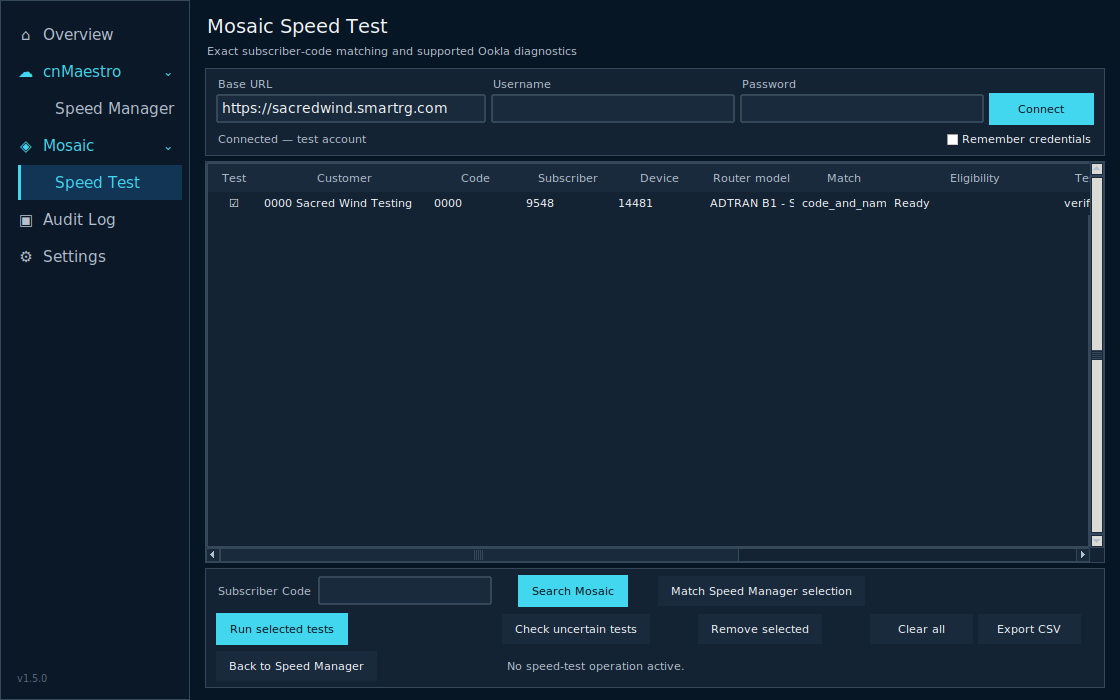
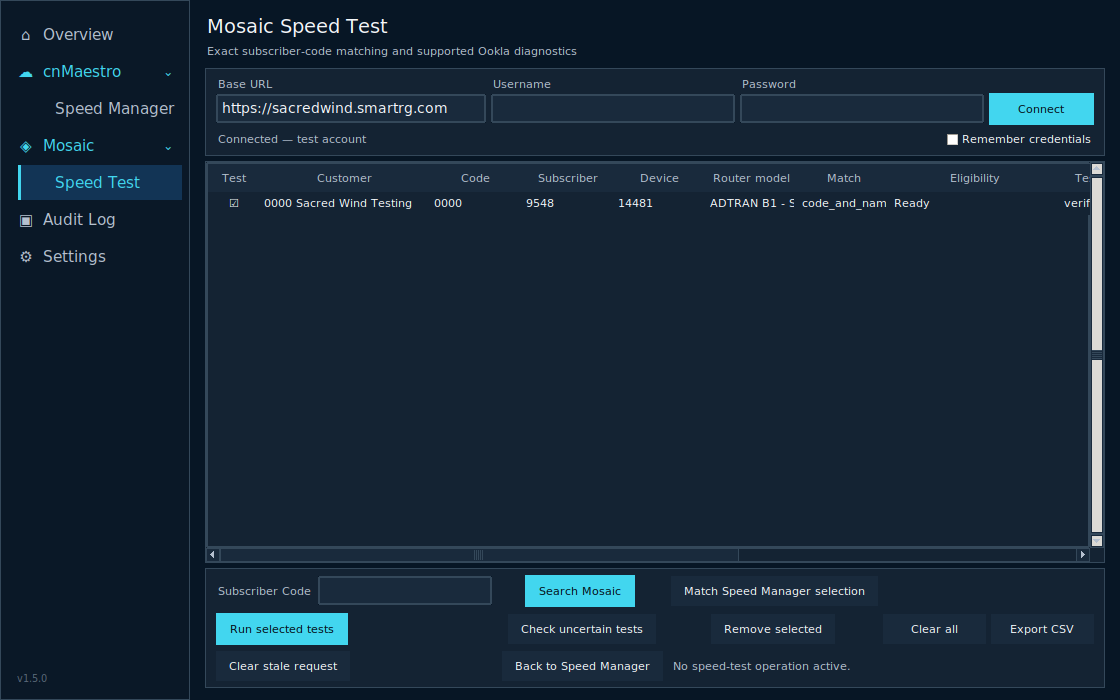
fix: prevent stale Mosaic request recurrence
Classify terminal pending requests, clean app-owned residue after verified results, and add a guarded operator clear action.

diff --git a/cnmaestro_speed_manager.py b/cnmaestro_speed_manager.py
@@ -248,7 +248,7 @@ class App(tk.Tk):
   o,t=self.card(p,0,0);o.grid(row=3,column=0,sticky='nsew',pady=(0,5));t.columnconfigure(0,weight=1);t.rowconfigure(0,weight=1);cols=('select','customer','code','subscriber','device','model','match','eligibility','state','test_time','download','upload','latency','jitter');heads=('Test','Customer','Code','Subscriber','Device','Router model','Match','Eligibility','Test status','Test time (UTC)','Download','Upload','Latency','Jitter');self.mosaic_tree=ttk.Treeview(t,columns=cols,show='headings',selectmode='none',height=10)
   for col,head in zip(cols,heads):self.mosaic_tree.heading(col,text=head);self.mosaic_tree.column(col,width=52 if col=='select' else (170 if col in ('customer','eligibility') else (155 if col=='test_time' else 92)),stretch=False,anchor='center' if col=='select' else 'w')
   self.mosaic_tree.bind('<Button-1>',self.mosaic_tree_click);y=ttk.Scrollbar(t,orient='vertical',command=self.mosaic_tree.yview);x=ttk.Scrollbar(t,orient='horizontal',command=self.mosaic_tree.xview);self.mosaic_tree.configure(yscrollcommand=y.set,xscrollcommand=x.set);self.mosaic_tree.grid(row=0,column=0,sticky='nsew');y.grid(row=0,column=1,sticky='ns');x.grid(row=1,column=0,sticky='ew')
-  o,a=self.card(p,10,6);o.grid(row=4,column=0,sticky='ew');ttk.Label(a,text='Subscriber Code',style='SurfaceMuted.TLabel').grid(row=0,column=0,sticky='w');self.mosaic_search_entry=ttk.Entry(a,textvariable=self.mosaic_search_code,width=18);self.mosaic_search_entry.grid(row=0,column=1,padx=(5,5));self.mosaic_search_button=ttk.Button(a,text='Search Mosaic',style='Accent.TButton',command=self.search_mosaic_subscriber);self.mosaic_search_button.grid(row=0,column=2);self.mosaic_find_button=ttk.Button(a,text='Match Speed Manager selection',command=self.find_mosaic_matches);self.mosaic_find_button.grid(row=0,column=3,padx=(8,0));self.mosaic_run_button=ttk.Button(a,text='Run selected tests',style='Accent.TButton',command=self.run_selected_mosaic_tests);self.mosaic_run_button.grid(row=1,column=0,columnspan=2,pady=(6,0),sticky='w');self.mosaic_reconcile_button=ttk.Button(a,text='Check uncertain tests',command=self.reconcile_mosaic_unknown);self.mosaic_reconcile_button.grid(row=1,column=2,padx=(5,0),pady=(6,0));self.mosaic_remove_button=ttk.Button(a,text='Remove selected',command=self.clear_selected_mosaic_candidates);self.mosaic_remove_button.grid(row=1,column=3,padx=(5,0),pady=(6,0));self.mosaic_clear_button=ttk.Button(a,text='Clear all',command=self.clear_all_mosaic_candidates);self.mosaic_clear_button.grid(row=1,column=4,padx=(5,0),pady=(6,0));self.mosaic_export_button=ttk.Button(a,text='Export CSV',command=self.export_mosaic_csv);self.mosaic_export_button.grid(row=1,column=5,padx=(5,0),pady=(6,0));self.mosaic_back_button=ttk.Button(a,text='Back to Speed Manager',command=lambda:self.show_page('speed_manager'));self.mosaic_back_button.grid(row=2,column=0,columnspan=2,sticky='w',pady=(6,0));self.mosaic_action_status=tk.StringVar(value='No speed-test operation active.');ttk.Label(a,textvariable=self.mosaic_action_status,style='SurfaceMuted.TLabel').grid(row=2,column=2,columnspan=4,sticky='w',padx=(8,0),pady=(6,0))
+  o,a=self.card(p,10,6);o.grid(row=4,column=0,sticky='ew');ttk.Label(a,text='Subscriber Code',style='SurfaceMuted.TLabel').grid(row=0,column=0,sticky='w');self.mosaic_search_entry=ttk.Entry(a,textvariable=self.mosaic_search_code,width=18);self.mosaic_search_entry.grid(row=0,column=1,padx=(5,5));self.mosaic_search_button=ttk.Button(a,text='Search Mosaic',style='Accent.TButton',command=self.search_mosaic_subscriber);self.mosaic_search_button.grid(row=0,column=2);self.mosaic_find_button=ttk.Button(a,text='Match Speed Manager selection',command=self.find_mosaic_matches);self.mosaic_find_button.grid(row=0,column=3,padx=(8,0));self.mosaic_run_button=ttk.Button(a,text='Run selected tests',style='Accent.TButton',command=self.run_selected_mosaic_tests);self.mosaic_run_button.grid(row=1,column=0,columnspan=2,pady=(6,0),sticky='w');self.mosaic_reconcile_button=ttk.Button(a,text='Check uncertain tests',command=self.reconcile_mosaic_unknown);self.mosaic_reconcile_button.grid(row=1,column=2,padx=(5,0),pady=(6,0));self.mosaic_remove_button=ttk.Button(a,text='Remove selected',command=self.clear_selected_mosaic_candidates);self.mosaic_remove_button.grid(row=1,column=3,padx=(5,0),pady=(6,0));self.mosaic_clear_button=ttk.Button(a,text='Clear all',command=self.clear_all_mosaic_candidates);self.mosaic_clear_button.grid(row=1,column=4,padx=(5,0),pady=(6,0));self.mosaic_export_button=ttk.Button(a,text='Export CSV',command=self.export_mosaic_csv);self.mosaic_export_button.grid(row=1,column=5,padx=(5,0),pady=(6,0));self.mosaic_clear_stale_button=ttk.Button(a,text='Clear stale request',command=self.clear_selected_stale_request);self.mosaic_clear_stale_button.grid(row=2,column=0,columnspan=2,sticky='w',pady=(6,0));self.mosaic_back_button=ttk.Button(a,text='Back to Speed Manager',command=lambda:self.show_page('speed_manager'));self.mosaic_back_button.grid(row=2,column=2,sticky='w',padx=(5,0),pady=(6,0));self.mosaic_action_status=tk.StringVar(value='No speed-test operation active.');ttk.Label(a,textvariable=self.mosaic_action_status,style='SurfaceMuted.TLabel').grid(row=2,column=3,columnspan=3,sticky='w',padx=(8,0),pady=(6,0))
  def on_publish_progress_changed(self,*_):
   text=self.progtext.get()
   if not text.startswith('Completed |') or text==self._publish_handoff_signature:return
@@ -276,10 +276,10 @@ class App(tk.Tk):
    unique={str(record.get('fields',{}).get('deviceId') or ''):record for record in match.records if record.get('fields',{}).get('deviceId')}
    found=[]
    for offset,(device_id,record) in enumerate(sorted(unique.items())):
-    single=match_subscriber(customer.get('name',''),[record]);bundle=await self.mosaic_api.read_device(device_id);elig=evaluate_eligibility(record,bundle['support'],bundle['application_status'],bundle['actions']);candidate=self.mosaic_candidate(customer,index*100+offset,single,elig);candidate['match']='multiple_devices';candidate['eligibility']='Review device choice — '+elig.reason;found.append(candidate)
+    single=match_subscriber(customer.get('name',''),[record]);bundle=await self.mosaic_api.read_device(device_id);elig=evaluate_eligibility(record,bundle['support'],bundle['application_status'],bundle['actions'],data=bundle['data']);candidate=self.mosaic_candidate(customer,index*100+offset,single,elig);candidate['match']='multiple_devices';candidate['eligibility']='Review device choice — '+elig.reason;found.append(candidate)
    return found
   if match.status!='matched':return [self.mosaic_candidate(customer,index,match,None)]
-  device_id=str(match.record.get('fields',{}).get('deviceId'));bundle=await self.mosaic_api.read_device(device_id);elig=evaluate_eligibility(match.record,bundle['support'],bundle['application_status'],bundle['actions']);return [self.mosaic_candidate(customer,index,match,elig)]
+  device_id=str(match.record.get('fields',{}).get('deviceId'));bundle=await self.mosaic_api.read_device(device_id);elig=evaluate_eligibility(match.record,bundle['support'],bundle['application_status'],bundle['actions'],data=bundle['data']);return [self.mosaic_candidate(customer,index,match,elig)]
  def search_mosaic_subscriber(self):
   if not self.mosaic_api:return messagebox.showerror('Mosaic','Connect to Mosaic first')
   code=self.mosaic_search_code.get().strip()
@@ -302,7 +302,7 @@ class App(tk.Tk):
    return found
   self.bg(work(),self.finish_mosaic_matches)
  def mosaic_candidate(self,customer,index,match,eligibility):
-  fields=match.record.get('fields',{}) if match and match.record else {};status=match.status if match else 'missing_code';reason=match.reason if match else 'Customer name has no leading subscriber code';eligible=bool(eligibility and eligibility.eligible);return {'key':str(fields.get('deviceId') or f'unmatched-{index}'),'selected':False,'customer':customer.get('name',''),'subscriber_code':match.subscriber_code if match else None,'subscriber_id':fields.get('subscriberId'),'device_id':fields.get('deviceId'),'model':fields.get('model'),'match':match.confidence if match and match.confidence else status,'eligible':eligible,'eligibility':eligibility.reason if eligibility else reason,'state':'ready' if eligible else 'review','download_mbps':None,'upload_mbps':None,'latency_ms':None,'jitter_ms':None,'test_time_utc':None,'record':match.record if match and match.record else None}
+  fields=match.record.get('fields',{}) if match and match.record else {};status=match.status if match else 'missing_code';reason=match.reason if match else 'Customer name has no leading subscriber code';eligible=bool(eligibility and eligibility.eligible);return {'key':str(fields.get('deviceId') or f'unmatched-{index}'),'selected':False,'customer':customer.get('name',''),'subscriber_code':match.subscriber_code if match else None,'subscriber_id':fields.get('subscriberId'),'device_id':fields.get('deviceId'),'model':fields.get('model'),'match':match.confidence if match and match.confidence else status,'eligible':eligible,'eligibility':eligibility.reason if eligibility else reason,'state':'ready' if eligible else 'review','download_mbps':None,'upload_mbps':None,'latency_ms':None,'jitter_ms':None,'test_time_utc':None,'stale_pending':bool(eligibility and eligibility.stale_pending),'record':match.record if match and match.record else None}
  def finish_mosaic_matches(self,result,error):
   if error:self.mosaic_action_status.set('Match error: '+str(error));return
   self.mosaic_candidates=result;self.mosaic_checked.clear();self.render_mosaic_candidates();ready=sum(c['eligible'] for c in result);self.mosaic_action_status.set(f'{len(result)} matched/reviewed | {ready} eligible')
@@ -317,10 +317,25 @@ class App(tk.Tk):
   self.toggle_mosaic_candidate(self.mosaic_tree.identify_row(event.y))
  def toggle_mosaic_candidate(self,key):
   candidate=next((c for c in self.mosaic_candidates if c['key']==key),None)
-  if not candidate or not candidate.get('eligible') or candidate.get('state')=='unknown':return
+  if not candidate or (not candidate.get('eligible') and not candidate.get('stale_pending')) or candidate.get('state')=='unknown':return
   if key in self.mosaic_checked:self.mosaic_checked.remove(key)
   else:self.mosaic_checked.add(key)
   candidate['selected']=key in self.mosaic_checked;self.render_mosaic_candidates()
+ def clear_selected_stale_request(self):
+  if self.mosaic_running:return messagebox.showerror('Mosaic','Wait for the active speed-test operation to finish.')
+  if not self.mosaic_api:return messagebox.showerror('Mosaic','Connect to Mosaic first')
+  selected=[candidate for candidate in self.mosaic_candidates if candidate.get('key') in self.mosaic_checked and candidate.get('stale_pending')]
+  if len(selected)!=1:return messagebox.showinfo('Mosaic','Select exactly one row labeled Stale Ookla request.')
+  candidate=selected[0]
+  if not messagebox.askyesno('Clear stale request',f"Clear only the stale Ookla request for device {candidate.get('device_id')}?\n\nNo speed test will be started."):return
+  self.mosaic_running=True;self.mosaic_run_button.configure(state='disabled');self.mosaic_clear_stale_button.configure(state='disabled');self.mosaic_action_status.set('Clearing stale Ookla request...')
+  async def work():
+   result=await self.mosaic_api.clear_terminal_ookla_pending(str(candidate['device_id']),required=True);bundle=await self.mosaic_api.read_device(str(candidate['device_id']));elig=evaluate_eligibility(candidate['record'],bundle['support'],bundle['application_status'],bundle['actions'],data=bundle['data']);return result,elig
+  self.bg(work(),lambda result,error,candidate=candidate:self.finish_stale_request_clear(candidate,result,error))
+ def finish_stale_request_clear(self,candidate,result,error):
+  self.mosaic_running=False;self.mosaic_run_button.configure(state='normal');self.mosaic_clear_stale_button.configure(state='normal')
+  if error:self.mosaic_action_status.set('Stale-request clear error: '+str(error));return
+  _,eligibility=result;candidate['eligible']=eligibility.eligible;candidate['eligibility']=eligibility.reason;candidate['stale_pending']=eligibility.stale_pending;candidate['state']='ready' if eligibility.eligible else 'review';self.render_mosaic_candidates();self.mosaic_action_status.set('Stale Ookla request cleared and eligibility refreshed.')
  def clear_selected_mosaic_candidates(self):
   if self.mosaic_running:return messagebox.showerror('Mosaic','Wait for the active speed test to finish.')
   if not self.mosaic_checked:return messagebox.showinfo('Mosaic','Select the customers to remove first.')
@@ -349,6 +364,8 @@ class App(tk.Tk):
    for index,c in enumerate(selected,1):
     device=str(c['device_id']);c['state']='submitting';outcome=await execute_journaled_ookla(self.mosaic_api,self.mosaic_journal,str(c['subscriber_code']),device,str(c.get('model') or ''),record=c['record']);c['state']=outcome['state']
     if outcome.get('metrics'):c.update(outcome['metrics'])
+    if outcome.get('cleanup',{}).get('unknown'):c['stale_pending']=True;c['eligibility']='Result verified; stale cleanup needs review'
+    elif outcome.get('cleanup',{}).get('cleared'):c['stale_pending']=False
     if outcome.get('detail'):c['eligibility']=outcome['detail']
    return selected
   self.bg(work(),lambda result,error:self.finish_mosaic_tests(result,error))

diff --git a/tests/test_mosaic_service.py b/tests/test_mosaic_service.py
@@ -68,6 +68,25 @@ class EligibilityTests(unittest.TestCase):
         support["applications"]["OoklaSpeedTest"]["driver"] = None
         self.assertEqual(evaluate_eligibility(record, support, status, actions, now=now).reason, "Ookla driver unavailable")
 
+
+    def test_terminal_ookla_pending_is_classified_as_stale_not_active(self):
+        record, support, status, actions, now = self.eligible_inputs()
+        actions["applications"]["OoklaSpeedTest"]["pendingSync"] = True
+        data = {"applications": {"OoklaSpeedTest": {"dto": {"Settings": {"OoklaSpeedTest": {"State": "Complete", "ExpectingResults": "false", "Results": {"1": {"Status": "Complete", "StartTimeStamp": "200"}}}}}}}}
+        result = evaluate_eligibility(record, support, status, actions, data=data, now=now)
+        self.assertFalse(result.eligible)
+        self.assertTrue(result.stale_pending)
+        self.assertEqual(result.reason, "Stale Ookla request — select this row and clear it")
+
+    def test_pending_ookla_expecting_results_remains_active_and_not_clearable(self):
+        record, support, status, actions, now = self.eligible_inputs()
+        actions["applications"]["OoklaSpeedTest"]["pendingSync"] = True
+        data = {"applications": {"OoklaSpeedTest": {"dto": {"Settings": {"OoklaSpeedTest": {"State": "In Progress", "ExpectingResults": "true", "Results": {}}}}}}}
+        result = evaluate_eligibility(record, support, status, actions, data=data, now=now)
+        self.assertFalse(result.eligible)
+        self.assertFalse(result.stale_pending)
+        self.assertEqual(result.reason, "Another Mosaic action is pending")
+
     def test_unsupported_nodriver_pending_stale_and_sr905_are_ineligible(self):
         record, support, status, actions, now = self.eligible_inputs()
         support["applications"]["OoklaSpeedTest"]["supported"] = False
@@ -170,6 +189,7 @@ class JournaledExecutionTests(unittest.IsolatedAsyncioTestCase):
         def __init__(self, failure=None):
             self.failure = failure
             self.puts = 0
+            self.cleanup_calls = 0
         async def search_subscriber(self, code):
             return [{"fields": {"subscriberCode": str(code), "deviceId": "2", "subscriberId": "1", "model": "SDG", "disposition": "MANAGED_DEVICE", "lastInform": datetime.now(timezone.utc).isoformat(), "fullName": ""}}]
         async def read_device(self, device_id):
@@ -180,6 +200,9 @@ class JournaledExecutionTests(unittest.IsolatedAsyncioTestCase):
                 "data": {},
             }
         async def latest_result(self, device_id): return None
+        async def clear_terminal_ookla_pending(self, device_id, *, required=False):
+            self.cleanup_calls += 1
+            return {"cleared": True}
         async def start_ookla(self, device_id):
             self.puts += 1
             if self.failure == "before": raise ValueError("definite rejection")
@@ -207,6 +230,8 @@ class JournaledExecutionTests(unittest.IsolatedAsyncioTestCase):
             outcome = await execute_journaled_ookla(client, journal, "10014", "2", "Chosen", record=record)
             self.assertEqual(outcome["state"], "verified")
             self.assertEqual(client.puts, 1)
+            self.assertEqual(client.cleanup_calls, 1)
+            self.assertTrue(outcome["cleanup"]["cleared"])
 
     async def test_capability_is_rechecked_immediately_before_submission(self):
         class BecameUnsupported(self.FakeClient):
@@ -377,6 +402,46 @@ class PortalClientTests(unittest.IsolatedAsyncioTestCase):
         self.assertEqual(result["start_timestamp"], "300")
         self.assertEqual(reads, 3)
 
+
+
+    async def test_guarded_stale_clear_changes_only_ookla_and_verifies_readback(self):
+        action_reads = 0
+        puts = []
+        before = {"revision": 7, "applications": {"OoklaSpeedTest": {"pendingSync": True, "dataOwner": "SERVER"}, "Other": {"pendingSync": False}}}
+        data = {"applications": {"OoklaSpeedTest": {"dto": {"Settings": {"OoklaSpeedTest": {"State": "Complete", "ExpectingResults": "false", "Results": {"1": {"Status": "Complete", "StartTimeStamp": "200"}}}}}}}}
+        status = {"applications": {"OoklaSpeedTest": {"state": "OK"}}}
+        def handler(request):
+            nonlocal action_reads
+            if request.url.path.endswith("/actions") and request.method == "GET":
+                action_reads += 1
+                return httpx.Response(200, json=before if action_reads == 1 else {"revision": 7, "applications": {"OoklaSpeedTest": {"pendingSync": False, "dataOwner": "SERVER"}, "Other": {"pendingSync": False}}})
+            if request.url.path.endswith("/support"): return httpx.Response(200, json={"applications": {}})
+            if request.url.path.endswith("/data"): return httpx.Response(200, json=data)
+            if request.url.path.endswith("/applicationStatus"): return httpx.Response(200, json=status)
+            if request.url.path.endswith("/actions") and request.method == "PUT": puts.append(json.loads(request.content)); return httpx.Response(200, json={})
+            raise AssertionError(str(request.url))
+        client = MosaicPortalClient("https://mosaic.example", "user", "pass", transport=httpx.MockTransport(handler));client.set_session_for_test("session", "xsrf")
+        result = await client.clear_terminal_ookla_pending("2", required=True)
+        self.assertTrue(result["cleared"])
+        self.assertEqual(len(puts), 1)
+        self.assertEqual(puts[0]["revision"], 7)
+        self.assertFalse(puts[0]["applications"]["OoklaSpeedTest"]["pendingSync"])
+        self.assertFalse(puts[0]["applications"]["Other"]["pendingSync"])
+
+    async def test_active_pending_request_is_never_cleared(self):
+        puts = 0
+        before = {"applications": {"OoklaSpeedTest": {"pendingSync": True}}}
+        data = {"applications": {"OoklaSpeedTest": {"dto": {"Settings": {"OoklaSpeedTest": {"State": "In Progress", "ExpectingResults": "true", "Results": {}}}}}}}
+        def handler(request):
+            nonlocal puts
+            if request.url.path.endswith("/actions") and request.method == "GET": return httpx.Response(200, json=before)
+            if request.url.path.endswith("/data"): return httpx.Response(200, json=data)
+            if request.url.path.endswith("/applicationStatus"): return httpx.Response(200, json={"applications": {"OoklaSpeedTest": {"state": "OK"}}})
+            if request.method == "PUT": puts += 1
+            return httpx.Response(200, json={})
+        client = MosaicPortalClient("https://mosaic.example", "user", "pass", transport=httpx.MockTransport(handler));client.set_session_for_test("session", "xsrf")
+        with self.assertRaisesRegex(RuntimeError, "not stale"): await client.clear_terminal_ookla_pending("2", required=True)
+        self.assertEqual(puts, 0)
 
     async def test_http_5xx_after_put_is_ambiguous_and_not_retried(self):
         puts = 0

diff --git a/mosaic_service.py b/mosaic_service.py
@@ -38,6 +38,7 @@ class MatchResult:
 class EligibilityResult:
     eligible: bool
     reason: str
+    stale_pending: bool = False
 
 
 class AmbiguousSubmissionError(RuntimeError):
@@ -96,7 +97,24 @@ def _parse_timestamp(value) -> datetime | None:
         return None
 
 
-def evaluate_eligibility(record: dict, support: dict, application_status: dict, actions: dict, *, now: datetime | None = None) -> EligibilityResult:
+def terminal_stale_ookla(actions: dict, data: dict, application_status: dict) -> bool:
+    applications = actions.get("applications", {}) if isinstance(actions, dict) else {}
+    pending = [name for name, action in applications.items() if isinstance(action, dict) and _bool(action.get("pendingSync"))]
+    if pending != ["OoklaSpeedTest"]:
+        return False
+    try:
+        value = data["applications"]["OoklaSpeedTest"]["dto"]["Settings"]["OoklaSpeedTest"]
+    except (KeyError, TypeError):
+        return False
+    state = str(value.get("State") or "").casefold()
+    expecting = _bool(value.get("ExpectingResults"))
+    app_state = str(application_status.get("applications", {}).get("OoklaSpeedTest", {}).get("state") or "").casefold()
+    latest = latest_speed_result(data)
+    result_complete = bool(latest and str(latest.get("status") or "").casefold() == "complete")
+    return state == "complete" and not expecting and app_state in {"ok", "complete", "completed"} and result_complete
+
+
+def evaluate_eligibility(record: dict, support: dict, application_status: dict, actions: dict, *, data: dict | None = None, now: datetime | None = None) -> EligibilityResult:
     fields = record.get("fields", {}) if isinstance(record, dict) else {}
     model = str(fields.get("model") or "")
     if "sr905" in model.casefold():
@@ -122,6 +140,8 @@ def evaluate_eligibility(record: dict, support: dict, application_status: dict, 
         return EligibilityResult(False, "Ookla application status is NODRIVER")
     if app_state and app_state.casefold() not in {"ok", "complete", "completed"}:
         return EligibilityResult(False, f"Ookla application status is {app_state}")
+    if data is not None and terminal_stale_ookla(actions, data, application_status):
+        return EligibilityResult(False, "Stale Ookla request — select this row and clear it", True)
     for action in (actions.get("applications", {}) if isinstance(actions, dict) else {}).values():
         if isinstance(action, dict) and _bool(action.get("pendingSync")):
             return EligibilityResult(False, "Another Mosaic action is pending")
@@ -382,6 +402,27 @@ class MosaicPortalClient:
         data = (await self._request("GET", prefix + "/data")).json()
         return {"support": support, "actions": actions, "application_status": status, "data": data}
 
+    async def clear_terminal_ookla_pending(self, device_id: str, *, required: bool = False) -> dict:
+        bundle = await self.read_device(str(device_id))
+        if not terminal_stale_ookla(bundle["actions"], bundle["data"], bundle["application_status"]):
+            if required:
+                raise RuntimeError("The selected Ookla request is not stale")
+            return {"cleared": False, "reason": "not-stale"}
+        payload = deepcopy(bundle["actions"])
+        payload["applications"]["OoklaSpeedTest"]["pendingSync"] = False
+        try:
+            await self._request("PUT", f"/prime-home/api/v1/devices/{device_id}/actions", headers={"Content-Type": "application/json"}, json=payload)
+        except httpx.HTTPStatusError as exc:
+            if exc.response.status_code >= 500:
+                raise AmbiguousSubmissionError("Mosaic stale-request cleanup outcome is unknown") from exc
+            raise
+        except (httpx.TimeoutException, httpx.TransportError) as exc:
+            raise AmbiguousSubmissionError("Mosaic stale-request cleanup outcome is unknown") from exc
+        after = (await self._request("GET", f"/prime-home/api/v1/devices/{device_id}/actions")).json()
+        if _bool(after.get("applications", {}).get("OoklaSpeedTest", {}).get("pendingSync")):
+            raise AmbiguousSubmissionError("Mosaic did not verify stale-request cleanup")
+        return {"cleared": True}
+
     async def start_ookla(self, device_id: str) -> str:
         prefix = f"/prime-home/api/v1/devices/{device_id}"
         actions = (await self._request("GET", prefix + "/actions")).json()
@@ -472,6 +513,7 @@ async def execute_journaled_ookla(client: MosaicPortalClient, journal: MosaicJou
             bundle["support"],
             bundle["application_status"],
             bundle["actions"],
+            data=bundle["data"],
         )
         if not eligibility.eligible:
             return {"entry_id": None, "state": "ineligible", "detail": eligibility.reason}
@@ -508,8 +550,15 @@ async def execute_journaled_ookla(client: MosaicPortalClient, journal: MosaicJou
     except Exception as exc:
         journal.transition(entry_id, "unknown", detail=str(exc))
         return {"entry_id": entry_id, "state": "unknown", "detail": str(exc)}
-    journal.transition(entry_id, "verified", metrics=metrics)
-    return {"entry_id": entry_id, "state": "verified", "metrics": metrics}
+    cleanup = {"cleared": False}
+    cleanup_detail = ""
+    try:
+        cleanup = await client.clear_terminal_ookla_pending(device_id, required=False)
+    except Exception as exc:
+        cleanup = {"cleared": False, "unknown": True}
+        cleanup_detail = f"Result verified; stale-request cleanup needs review: {exc}"
+    journal.transition(entry_id, "verified", metrics=metrics, detail=cleanup_detail)
+    return {"entry_id": entry_id, "state": "verified", "metrics": metrics, "cleanup": cleanup}
 
 
 async def reconcile_journal_entry(client: MosaicPortalClient, journal: MosaicJournal, entry: dict) -> dict:
@@ -535,8 +584,15 @@ async def reconcile_journal_entry(client: MosaicPortalClient, journal: MosaicJou
     except Exception as exc:
         journal.transition(entry_id, "unknown", detail=str(exc))
         return {"entry_id": entry_id, "state": "unknown", "detail": str(exc)}
-    journal.transition(entry_id, "verified", metrics=metrics)
-    return {"entry_id": entry_id, "state": "verified", "metrics": metrics}
+    cleanup = {"cleared": False}
+    cleanup_detail = ""
+    try:
+        cleanup = await client.clear_terminal_ookla_pending(device_id, required=False)
+    except Exception as exc:
+        cleanup = {"cleared": False, "unknown": True}
+        cleanup_detail = f"Result verified; stale-request cleanup needs review: {exc}"
+    journal.transition(entry_id, "verified", metrics=metrics, detail=cleanup_detail)
+    return {"entry_id": entry_id, "state": "verified", "metrics": metrics, "cleanup": cleanup}
 
 
 # Mosaic credential persistence -------------------------------------------------

diff --git a/tests/test_mosaic_ui.py b/tests/test_mosaic_ui.py
@@ -114,6 +114,47 @@ class MosaicUiTests(unittest.TestCase):
         self.assertEqual(self.app.mosaic_export_button.cget("text"), "Export CSV")
 
 
+
+    def test_terminal_stale_candidate_is_labeled_for_explicit_cleanup(self):
+        class FakeApi:
+            async def read_device(self, device_id):
+                return {
+                    "support": {"applications": {"OoklaSpeedTest": {"supported": True, "driver": {"ref": "driver"}}}},
+                    "application_status": {"applications": {"OoklaSpeedTest": {"state": "OK"}}},
+                    "actions": {"applications": {"OoklaSpeedTest": {"pendingSync": True}}},
+                    "data": {"applications": {"OoklaSpeedTest": {"dto": {"Settings": {"OoklaSpeedTest": {"State": "Complete", "ExpectingResults": "false", "Results": {"1": {"Status": "Complete", "StartTimeStamp": "200"}}}}}}}},
+                }
+        self.app.mosaic_api = FakeApi()
+        record = {"fields": {"subscriberCode": "10014", "subscriberId": "1", "deviceId": "2", "model": "ADTRAN", "fullName": "Test", "disposition": "MANAGED_DEVICE", "lastInform": "2099-01-01T00:00:00+00:00"}}
+        rows = asyncio.run(self.app.mosaic_candidates_for_records({"name": "10014 Test"}, 0, [record]))
+        self.assertTrue(rows[0]["stale_pending"])
+        self.assertFalse(rows[0]["eligible"])
+        self.assertIn("Stale Ookla request", rows[0]["eligibility"])
+
+    def test_guarded_clear_stale_request_refreshes_candidate_to_ready(self):
+        class FakeApi:
+            def __init__(self): self.clears = 0
+            async def clear_terminal_ookla_pending(self, device_id, *, required=False): self.clears += 1; return {"cleared": True}
+            async def read_device(self, device_id):
+                return {"support": {"applications": {"OoklaSpeedTest": {"supported": True, "driver": {"ref": "driver"}}}}, "application_status": {"applications": {"OoklaSpeedTest": {"state": "OK"}}}, "actions": {"applications": {"OoklaSpeedTest": {"pendingSync": False}}}, "data": {}}
+        api = FakeApi();self.app.mosaic_api = api
+        record = {"fields": {"subscriberCode": "10014", "subscriberId": "1", "deviceId": "2", "model": "ADTRAN", "fullName": "Test", "disposition": "MANAGED_DEVICE", "lastInform": "2099-01-01T00:00:00+00:00"}}
+        self.app.mosaic_candidates = [{"key": "2", "device_id": "2", "record": record, "stale_pending": True, "eligible": False, "eligibility": "Stale Ookla request", "state": "review"}]
+        self.app.mosaic_checked = {"2"}
+        def immediate(coroutine, callback):
+            try: callback(asyncio.run(coroutine), None)
+            except Exception as exc: callback(None, exc)
+        with mock.patch.object(toolkit.messagebox, "askyesno", return_value=True), mock.patch.object(self.app, "bg", side_effect=immediate):
+            self.app.clear_selected_stale_request()
+        self.assertEqual(api.clears, 1)
+        self.assertFalse(self.app.mosaic_candidates[0]["stale_pending"])
+        self.assertTrue(self.app.mosaic_candidates[0]["eligible"])
+        self.assertEqual(self.app.mosaic_candidates[0]["state"], "ready")
+        self.assertEqual(self.app.mosaic_candidates[0]["eligibility"], "Ready")
+
+    def test_stale_clear_control_exists(self):
+        self.assertEqual(self.app.mosaic_clear_stale_button.cget("text"), "Clear stale request")
+
     def test_mosaic_actions_without_connection_notify_user(self):
         self.app.mosaic_api = None
         self.app.mosaic_search_code.set("10014")

diff --git a/README.md b/README.md
@@ -11,6 +11,7 @@ Operations Toolkit 1.5.0 is a local candidate that preserves the working cnMaest
 - Shows test date/time in UTC and supports clearing visible rows or exporting Excel-compatible CSV.
 - Provides a structured pop-out Preview Changes table while keeping update checks in Settings.
 - Runs explicitly selected supported Ookla tests sequentially, with a durable local journal and unknown-outcome reconciliation.
+- Automatically cleans app-owned terminal pending flags and provides a guarded Clear stale request action for externally staged leftovers.
 - Mosaic passwords are optionally stored per Windows user in Windows Credential Manager, never plaintext, and never auto-connect.
 - Preserves the cnMaestro API and guarded operational behavior from previous releases.
 
